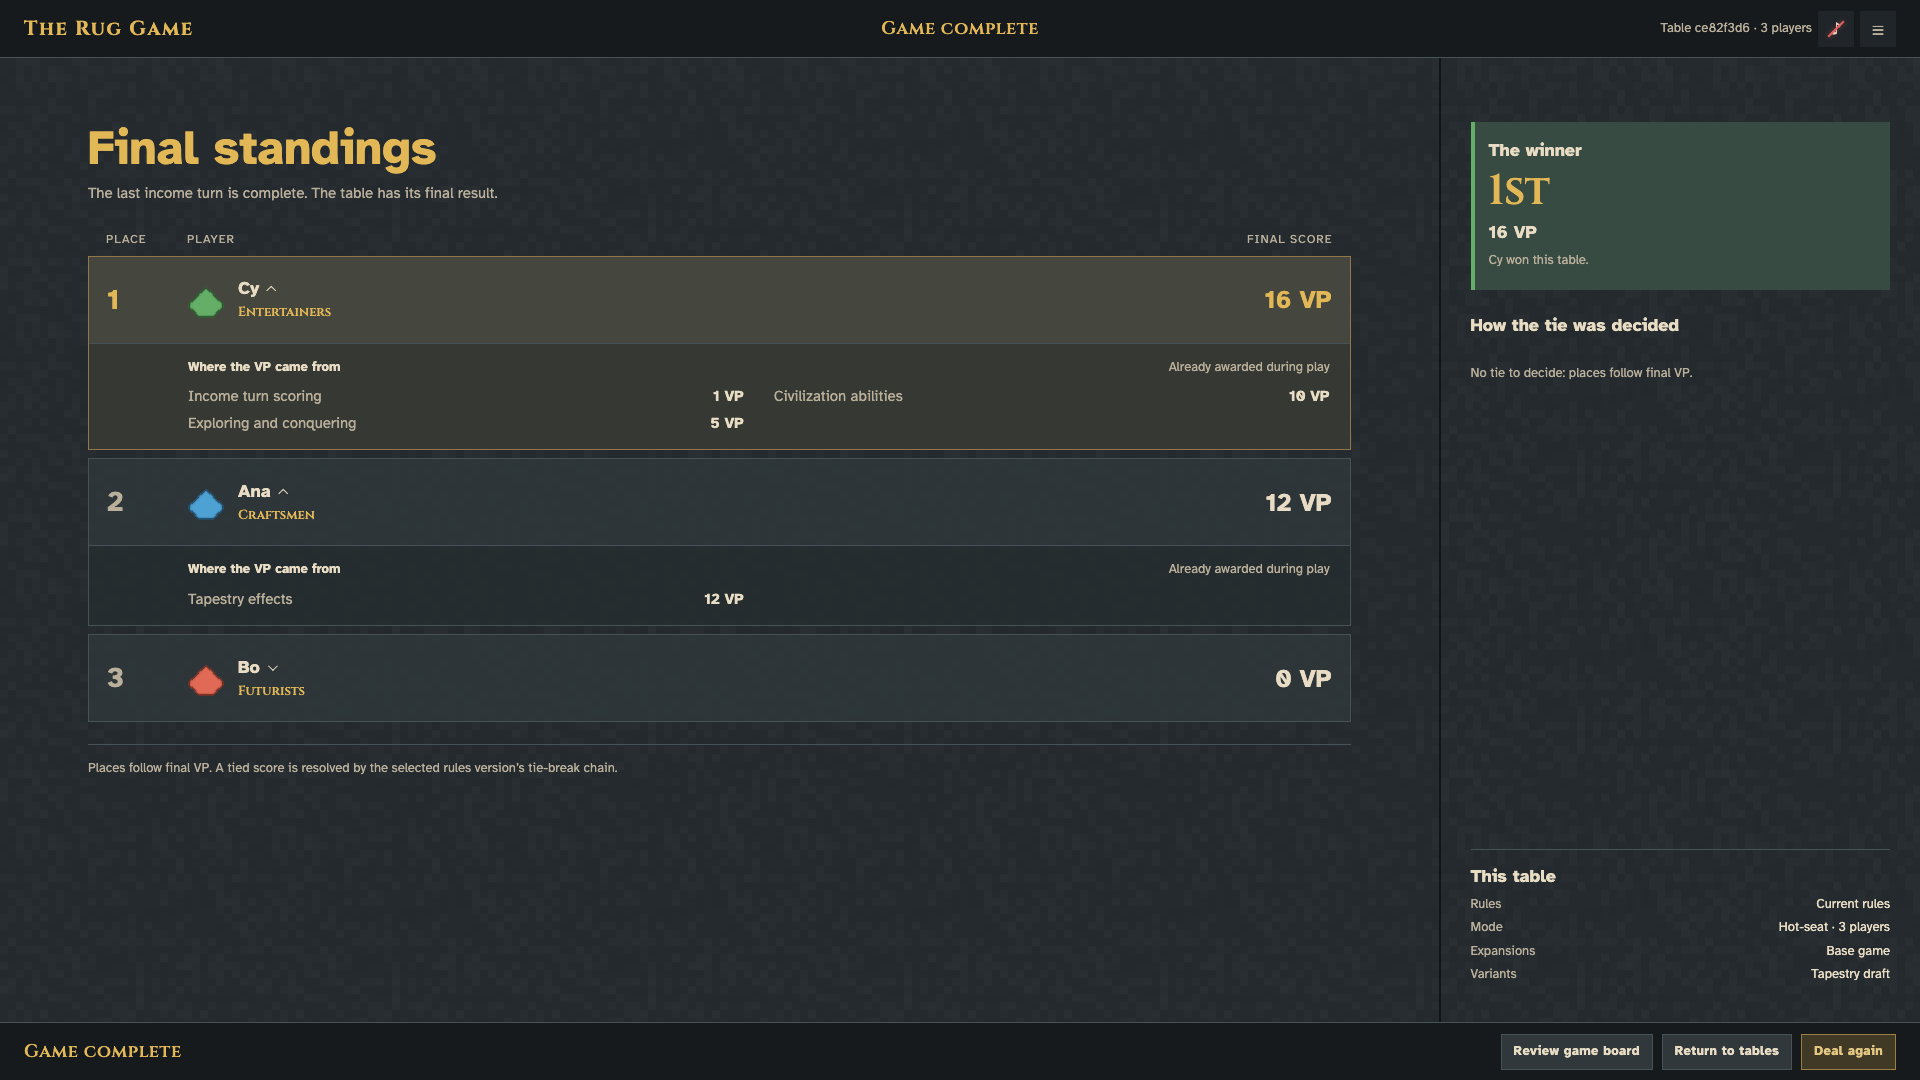
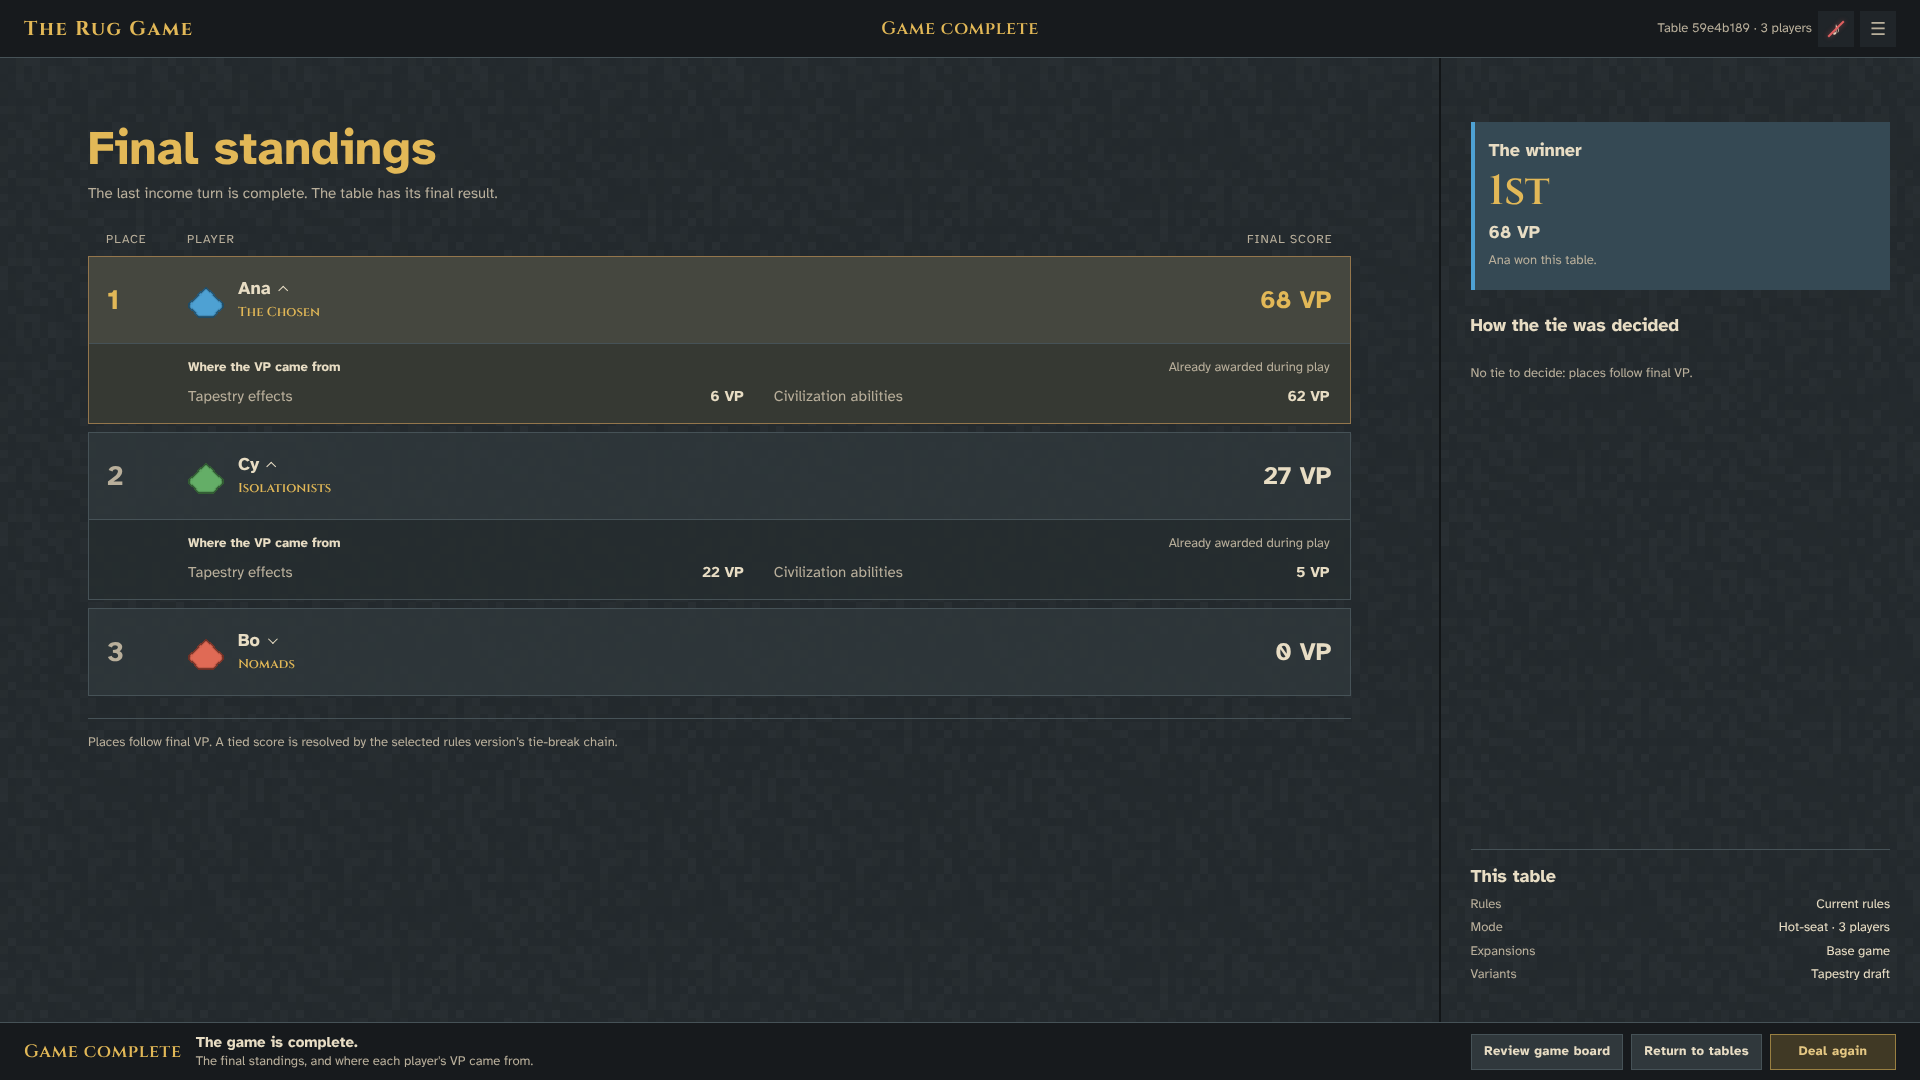
Refs #105: the results footer is a TurnBar in a new complete tone, shared with the board review
The owner approved it (2026-10-30). TurnBar gains a complete tone with the
label upright in Cinzel; Results passes it as PlayLayout's footer with Review
game board, Return to tables and Deal again as its actions, and the board
review's footer (footerView 'over') takes the same tone. The results and log
screenshots are retaken from the running game.

Claude-Session: https://claude.ai/code/session_01BjVQX8wTPtaH6Eq6ruZmvE

diff --git a/src/lib/components/prompts/TurnBar.svelte b/src/lib/components/prompts/TurnBar.svelte
@@ -1,11 +1,11 @@
 <!-- The footer: the current decision or what another player is doing, its cost and actions, and a reveal beside the turn label. -->
 <script module>
-	/** @typedef {'neutral' | 'selected' | 'optional' | 'waiting' | 'income'} TurnBarTone */
+	/** @typedef {'neutral' | 'selected' | 'optional' | 'waiting' | 'income' | 'complete'} TurnBarTone */
 
 	/**
 	 * Properties of the TurnBar component itself.
 	 * @typedef {Object} TurnBarOwnProps
-	 * @property {TurnBarTone} [tone='neutral'] - neutral: your turn, nothing chosen; selected: a space is chosen; optional: an optional benefit tinted with the track; waiting: another player's turn, label and text only; income: the viewer's own income turn, a gold footer
+	 * @property {TurnBarTone} [tone='neutral'] - neutral: your turn, nothing chosen; selected: a space is chosen; optional: an optional benefit tinted with the track; waiting: another player's turn, label and text only; income: the viewer's own income turn, a gold footer; complete: the finished game, on the results and the board review, its label upright as the header's Game complete (#105)
 	 * @property {string} [label='Your turn'] - The turn label, such as 'Optional action' or 'Ana’s turn'
 	 * @property {string} [labelColor] - The label's colour as a token reference, such as 'var(--player-2)' for another player's turn; defaults to gold
 	 * @property {string} heading - The decision, such as 'Advance to'
@@ -195,6 +195,12 @@
 
 	.rg-turn-bar--optional .rg-turn-bar--label {
 		color: var(--rg-turn-bar-tint);
+	}
+
+	/* The finished game's label stands upright and spaced, as the end-screen mockup's footer and the header's Game complete (issue 105). */
+	.rg-turn-bar--complete .rg-turn-bar--label {
+		font-style: normal;
+		letter-spacing: var(--letter-spacing-title);
 	}
 
 	/* Another player's turn carries their name, and player names never use Cinzel. */

diff --git a/src/library/sections/prompts/TurnBar.svelte b/src/library/sections/prompts/TurnBar.svelte
@@ -1,4 +1,4 @@
-<!-- Library section: TurnBar in its neutral, selected, optional and waiting tones with the income reveal passed in (#122), the forced and first income turns (#77), and the Ships walk-through from the mockup. -->
+<!-- Library section: TurnBar in its neutral, selected, optional and waiting tones with the income reveal passed in (#122), the forced and first income turns (#77), the finished game (#105), and the Ships walk-through from the mockup. -->
 <script>
 	import IncomeReveal from '../../../lib/components/prompts/IncomeReveal.svelte';
 	import TurnBar from '../../../lib/components/prompts/TurnBar.svelte';
@@ -228,6 +228,36 @@
 			label="Ana’s turn"
 			labelColor="var(--player-2)"
 			heading="Ana is choosing where to conquer…" />
+	</Example>
+	<Example
+		label={'tone="complete" label="Game complete"  (the results footer, as the host sees it; #105)'}
+		surface="ink"
+		wide>
+		<TurnBar
+			tone="complete"
+			label="Game complete"
+			heading="The game is complete."
+			detail="The final standings, and where each player's VP came from.">
+			{#snippet actions()}
+				<Button>Review game board</Button>
+				<Button mode="secondary">Return to tables</Button>
+				<Button mode="gold">Deal again</Button>
+			{/snippet}
+		</TurnBar>
+	</Example>
+	<Example
+		label={'tone="complete"  (the board review after the game, with Results back)'}
+		surface="ink"
+		wide>
+		<TurnBar
+			tone="complete"
+			label="Game complete"
+			heading="The game is complete."
+			detail="The board as the game ended.">
+			{#snippet actions()}
+				<Button mode="gold">Results</Button>
+			{/snippet}
+		</TurnBar>
 	</Example>
 	<Example
 		{label}

diff --git a/src/screens/Results.svelte b/src/screens/Results.svelte
@@ -23,6 +23,7 @@
 	import StandingRow from '../lib/components/results/StandingRow.svelte';
 	import TieSteps from '../lib/components/results/TieSteps.svelte';
 	import PlayLayout from '../lib/components/ui/PlayLayout.svelte';
+	import TurnBar from '../lib/components/prompts/TurnBar.svelte';
 	import PageHeader from './PageHeader.svelte';
 	import { isHost } from '../lib/lobby.js';
 	import { playerColor } from '../lib/ui.js';
@@ -188,9 +189,13 @@
 	{/snippet}
 
 	{#snippet footer()}
-		<footer class="rg-results--footer">
-			<span class="rg-results--state">Game complete</span>
-			<div class="rg-results--actions">
+		<!-- The board review's footer says the same in the same tone (turn.js footerView), so the two read as one (owner, 2026-10-30). -->
+		<TurnBar
+			tone="complete"
+			label="Game complete"
+			heading="The game is complete."
+			detail="The final standings, and where each player's VP came from.">
+			{#snippet actions()}
 				<Button onButtonClick={reviewHandler}>Review game board</Button>
 				<Button
 					mode={hosting ? 'secondary' : 'gold'}
@@ -203,8 +208,8 @@
 						onButtonClick={() => store.startGame()}
 						>Deal again</Button>
 				{/if}
-			</div>
-		</footer>
+			{/snippet}
+		</TurnBar>
 	{/snippet}
 </PlayLayout>
 
@@ -353,20 +358,5 @@
 		flex-wrap: wrap;
 		justify-content: flex-end;
 		gap: var(--space-3);
-	}
-
-	.rg-results--footer {
-		display: flex;
-		align-items: center;
-		justify-content: space-between;
-		gap: 20px;
-		padding: 0 24px;
-		border-top: var(--border) solid var(--line);
-		background: var(--chrome);
-	}
-
-	.rg-results--actions {
-		display: flex;
-		gap: 9px;
 	}
 </style>

diff --git a/src/lib/turn.js b/src/lib/turn.js
@@ -274,7 +274,7 @@ export function footerView(game, seat, inputs) {
 	if (game.phase === 'over') {
 		return {
 			kind: 'over',
-			tone: 'neutral',
+			tone: 'complete',
 			label: 'Game complete',
 			heading: 'The game is complete.',
 			detail: 'The board as the game ended.',

diff --git a/docs/superpowers/specs/2026-10-30-play-layout-design.md b/docs/superpowers/specs/2026-10-30-play-layout-design.md
@@ -36,7 +36,17 @@ Nothing on screen changes.
 
 ## 4. Not done
 
-- **The results footer stays its own bar.** #86 built `TurnFooter` for the game's footers, and the results bar's buttons (Review game board, Return to tables, Deal again) and its "Game complete" label are not a `TurnBar` state. Drawing it as one would change how it looks, so it is left for a cosmetic issue if the owner wants it.
+- **The results footer stays its own bar.** #86 built `TurnFooter` for the game's footers, and the results bar's buttons (Review game board, Return to tables, Deal again) and its "Game complete" label are not a `TurnBar` state. Drawing it as one would change how it looks, so it is left for a cosmetic issue if the owner wants it. *Superseded by §7.*
+
+## 7. Follow-up: the results footer is a TurnBar (owner, 2026-10-30)
+
+The owner answered the open question "yes": the results screen's footer becomes a `TurnBar` instead of its own bar. This changes how it looks, and is approved.
+
+- **A `complete` tone in `TurnBar`** for the finished game **(my call)**. It is the neutral bar with the label upright and spaced (`font-style: normal`, `--letter-spacing-title`), as the end-screen mockup's footer and the header draw **Game complete** in Cinzel; the italic turn label would have read as a turn in play. The other tones are unchanged, and the library shows the tone as the results footer (with Deal again) and as the board review's.
+- **Results** passes `<TurnBar tone="complete" label="Game complete" heading="The game is complete." detail="The final standings, and where each player's VP came from.">` as `PlayLayout`'s footer, with **Review game board**, **Return to tables** and the host's **Deal again** in its `actions` snippet, their modes as before. Its `.rg-results--footer` and `.rg-results--actions` rules are gone.
+- **The board review's footer** (`turn.js` `footerView`, kind `over`) takes the same `complete` tone, so the two footers of the finished game read as one: the same label, the same heading, and each its own detail and buttons (Results back to the standings).
+- **Tests:** `tests/client-play-layout.test.mjs` checks that Results draws one `TurnBar` in the complete tone with its three actions and no footer of its own, and that `TurnBar` has the tone and its library example; `tests/client-footer.test.mjs` that a finished game's footer is in the complete tone. The browser test `tests/browser/results.test.mjs` finds the buttons by role and the review's footer by `.rg-turn-bar`, so its selectors stand.
+- **Screens:** `docs/ui/screens/game-results.png` and `game-log.png` were retaken from the running game at 1920×1080.
 
 ## 5. Tests
 

diff --git a/docs/ui/README.md b/docs/ui/README.md
@@ -506,7 +506,7 @@ This page is a **proposal pending owner review**. The example names, score-sourc
 
 ![The log and scores panel](screens/game-log.png)
 
-- **The results** follow this proposal with the finished game's own data: the engine's ranking (shared places repeat and the next skips), each player's VP by source as awarded during play (the engine now records where every VP came from, so nothing is scored again), the tie steps from `rankPlayers`, and the table's rules, mode, expansions and variants. At a hot-seat table the result box shows the winners, since the screen belongs to everyone. The footer adds **Deal again** for the host; **Review game board** shows the board as it ended, with a **Game complete** footer and a **Results** button back.
+- **The results** follow this proposal with the finished game's own data: the engine's ranking (shared places repeat and the next skips), each player's VP by source as awarded during play (the engine now records where every VP came from, so nothing is scored again), the tie steps from `rankPlayers`, and the table's rules, mode, expansions and variants. At a hot-seat table the result box shows the winners, since the screen belongs to everyone. The footer adds **Deal again** for the host; **Review game board** shows the board as it ended, with a **Game complete** footer and a **Results** button back. Both footers are the game's TurnBar in its `complete` tone (owner, 2026-10-30, #105): **Game complete** upright in gold Cinzel, "The game is complete." with the screen's own line under it, and the buttons at the right.
 - **The log and scores** open from the header's ▤ button, over the player area: the log names every player's moves in plain words, with a rule between turns, gold income turns and italic notices (a timeout, an undo, the end); the scores list the players by VP with their sources and tiebreak values. A gold dot marks entries not yet seen.
 - **Sound and motion:** sound cues (muted until switched on) mark your turn, an advance, a placement, a reward and the end; a changed territory pulses, a new building glows, a chip's VP pops and the progress lines grow. Nothing replays after a refresh, and nothing moves under reduced motion.
 - **Table settings** in the header menu let the host change the turn timer and undo during a game.

diff --git a/src/lib/components/README.md b/src/lib/components/README.md
@@ -102,7 +102,7 @@ These components are updated as the art issues deliver their assets. Each will s
 | `TurnControl` | The ↺ and ↻ buttons that turn the picked tile, with a gold `+n VP` tag between them (`No hex yet` and disabled until a hex is chosen) and the hint that . and , turn it (#74, #83). |
 | `VpTag` | The "+N VP" a choice scores: a gold badge over its parent's top-right corner (`corner`, muted for a tile that scores nothing) or bold gold text in a row (`inline`); `unit=""` draws "+N" alone. `DecisionOption`, `TilePicker` and `TurnControl` draw it (#116). |
 | `OverviewCloseBar` | The footer while the players overview is open. |
-| `TurnBar` | The footer: neutral, selected, optional-action, waiting and gold income states; a `reveal` snippet, such as the `IncomeReveal`, sits before the turn label (#122); a turn with only income to take puts a gold Take income in its actions (#77). |
+| `TurnBar` | The footer: neutral, selected, optional-action, waiting, gold income and finished-game (`complete`, on the results and the board review; #105) states; a `reveal` snippet, such as the `IncomeReveal`, sits before the turn label (#122); a turn with only income to take puts a gold Take income in its actions (#77). |
 
 ## lobby/
 
